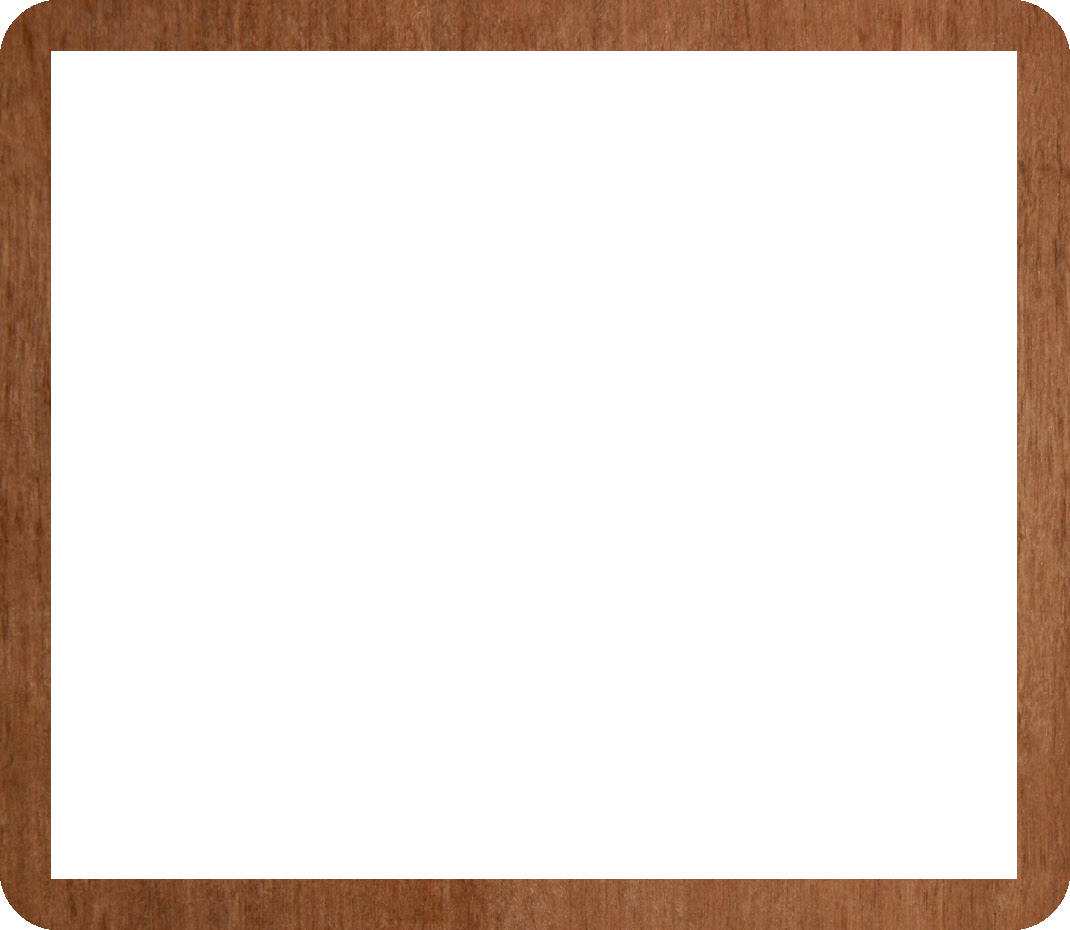
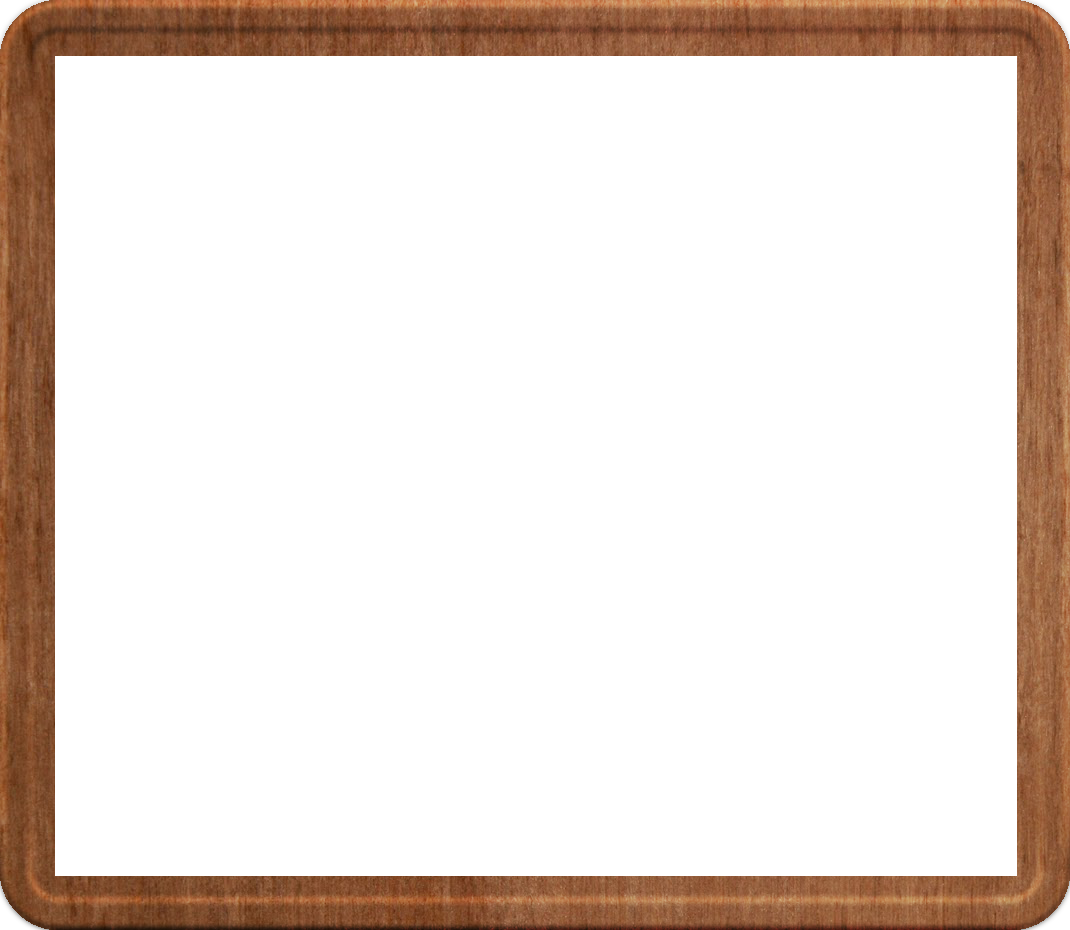
design REAL de la grille classique

Changed region(s): [[0.0, 0.0, 1.0, 1.0]]

diff --git a/projetAngular/src/app/classic/game/game.component.css b/projetAngular/src/app/classic/game/game.component.css
@@ -47,11 +47,12 @@
     .ombreGrille{
         position: absolute;
         z-index: 9;
-        top: 100px;
-        width: 490px;
-        height: 420px;
-        background-image: url(../../../../src/assets/images/ombreGrille.png);
+        top: 511px;
+        width: 950px;
+        height: 212px;
+        background-image: url(../../../../src/assets/images/ombreGrilleReal.png);
         background-size: cover;
+        transform: translateX(-327px);
     }
     /* GRILLE DE JEU */
     
@@ -70,19 +71,19 @@
         top: 100px;
         width: 490px;
         height: 420px;
-        background-image: url(../../../../src/assets/images/grille.png);
+        background-image: url(../../../../src/assets/images/grilleReal2.png);
         background-size: cover;
     }
     
     .cadre {
         position: absolute;
         z-index: 25;
-        top: 78px;
-        width: 535px;
-        height: 465px;
-        background-image: url(../../../../src/assets/images/cadre.png);
+        top: 83px;
+        width: 678px;
+        height: 631px;
+        background-image: url(../../../../src/assets/images/cadreReal.png);
         background-size: cover;
-        transform: translateX(-25px);
+        transform: translateX(-94px);
     }
     
     .Topgrille {
@@ -136,9 +137,10 @@
             height: 300px;
         }
         .ombreGrille {
-            top: 70px;
-            width: 350px;
-            height: 300px;
+            top: 361px;
+            width: 670px;
+            height: 152px;
+            transform: translateX(-247px);
         }
         .Decogrille {
             top: 70px;
@@ -146,10 +148,10 @@
             height: 300px;
         }
         .cadre {
-            top: 50px;
-            width: 387px;
-            height: 336px;
-            transform: translateX(-18px);
+            top: 58px;
+            width: 485px;
+            height: 451px;
+            transform: translateX(-68px);
         }
         .Topgrille {
             top: 0px;
@@ -188,9 +190,10 @@
             height: 180px;
         }
         .ombreGrille {
-            top: 40px;
-            width: 210px;
-            height: 180px;
+            top: 197px;
+            width: 452px;
+            height: 112px;
+            transform: translateX(-200px);
         }
         .Decogrille {
             top: 40px;
@@ -198,10 +201,10 @@
             height: 180px;
         }
         .cadre {
-            top: 30px;
-            width: 230px;
-            height: 200px;
-            transform: translateX(-9px);
+            top: 34px;
+            width: 287px;
+            height: 267px;
+            transform: translateX(-39px);
         }
         .Topgrille {
             top: 0px;

diff --git a/projetAngular/src/app/classic/room/room.component.css b/projetAngular/src/app/classic/room/room.component.css
@@ -1,3 +1,8 @@
+p {
+    font-family: 'Love Ya Like A Sister', cursive;
+    color: wheat;
+}
+
 .roomGame {
     text-align: center;
 }
@@ -13,18 +18,17 @@
 }
 
 .roomBG {
-    font-family: sans-serif;
-    height: 100vh;
+    height: 300vh;
     background-image: url(../../../assets/images/BGwood.jpg);
-    background-size: cover;
+    background-size: 100%;
 }
 
 .planche {
     position: absolute;
     z-index: 0;
-    top: 584px;
+    top: 662px;
     width: 100vw;
-    height: 155px;
+    height: 173px;
     background-image: url(../../../../src/assets/images/planche.png);
     background-size: cover;
     overflow: none;
@@ -32,7 +36,7 @@
 
 @media (max-width:700px) {
     .planche {
-        top: 450px;
+        top: 500px;
         height: 115px;
     }
 }

diff --git a/projetAngular/src/app/wood/gameWood/gameWood.component.ts b/projetAngular/src/app/wood/gameWood/gameWood.component.ts
@@ -571,8 +571,8 @@ export class GameWoodComponent implements OnInit {
         }
 
         // On charge un bruit aléatoire de pose du pion
-        let random = Math.floor(Math.random() * 3) + 1;
-        this.SFX_pion.src = "../../../../assets/sounds/SFXposePion" + random + ".mp3";
+        //let random = Math.floor(Math.random() * 3) + 1;
+        this.SFX_pion.src = "../../../../assets/sounds/SFXposePionWood.mp3";
         this.SFX_pion.load();
         this.SFX_pion.play();
         return;

diff --git a/projetAngular/src/app/wood/roomWood/roomWood.component.html b/projetAngular/src/app/wood/roomWood/roomWood.component.html
@@ -1,10 +1,12 @@
 <div class="roomBG">
-    <p>Puissance 4 2017 OnFire</p>
-    <h6>room n°{{indexRoom}}</h6>
+
+    <!--p>Puissance 4 Wood Edition</p>
+    <p>room n°{{indexRoom}}</p-->
 
     <br>
-
-    <p>BONJOUR {{pseudo}} vous êtes {{couleurJoueur}}</p>
+ <br>
+ <br>
+    <p>Welcome {{pseudo}}</p>
     <p *ngIf="couleurJoueur == joueurEnCours">C'est à vous de jouer</p>
     <p *ngIf="couleurJoueur != joueurEnCours">Ce n'est pas votre tour</p>
     <div class="container-fluid">

diff --git a/projetAngular/src/app/classic/room/room.component.html b/projetAngular/src/app/classic/room/room.component.html
@@ -1,10 +1,10 @@
 <div class="roomBG">
-    <p>Puissance 4 2017 OnFire</p>
-    <h6>room n°{{indexRoom}}</h6>
+    <!--p>Puissance 4 Classic Edition</p>
+    <p>room n°{{indexRoom}}</p-->
 
     <br>
 
-    <p>BONJOUR {{pseudo}} vous êtes {{couleurJoueur}}</p>
+    <p>Welcome {{pseudo}}</p>
     <p *ngIf="couleurJoueur == joueurEnCours">C'est à vous de jouer</p>
     <p *ngIf="couleurJoueur != joueurEnCours">Ce n'est pas votre tour</p>
     <div class="container-fluid">

diff --git a/projetAngular/src/app/wood/roomWood/roomWood.component.css b/projetAngular/src/app/wood/roomWood/roomWood.component.css
@@ -1,3 +1,7 @@
+p {
+    font-family: 'Love Ya Like A Sister', cursive;
+    color: wheat;
+}
 .roomGame {
     text-align: center;
 }
@@ -13,8 +17,9 @@
 }
 
 .roomBG {
-    font-family: sans-serif;
-    height: 100vh;
+    font-family: 'Love Ya Like A Sister', cursive;
+    color: wheat;
+    height: 300vh;
     background-image: url(../../../assets/images/BG2.png);
     background-size: cover;
 }

diff --git a/projetAngular/src/app/classic/game/game.component.ts b/projetAngular/src/app/classic/game/game.component.ts
@@ -569,7 +569,7 @@ export class GameComponent implements OnInit {
         }
 
         // On charge un bruit aléatoire de pose du pion
-        let random = Math.floor(Math.random() * 3) + 1;
+        let random = Math.floor(Math.random() * 2) + 1;
         this.SFX_pion.src = "../../../../assets/sounds/SFXposePion" + random + ".mp3";
         this.SFX_pion.load();
         this.SFX_pion.play();

diff --git a/projetAngular/src/app/pseudo/pseudo.component.css b/projetAngular/src/app/pseudo/pseudo.component.css
@@ -46,7 +46,7 @@ p {
 .wood {
     width: 200px;
     height: 150px;
-    background-image: url(../../../src/assets/images/grilleWood.png);
+    background-image: url(../../../src/assets/images/themeWood.png);
     background-size: cover;
     border-radius: 30px;
     border: black;
